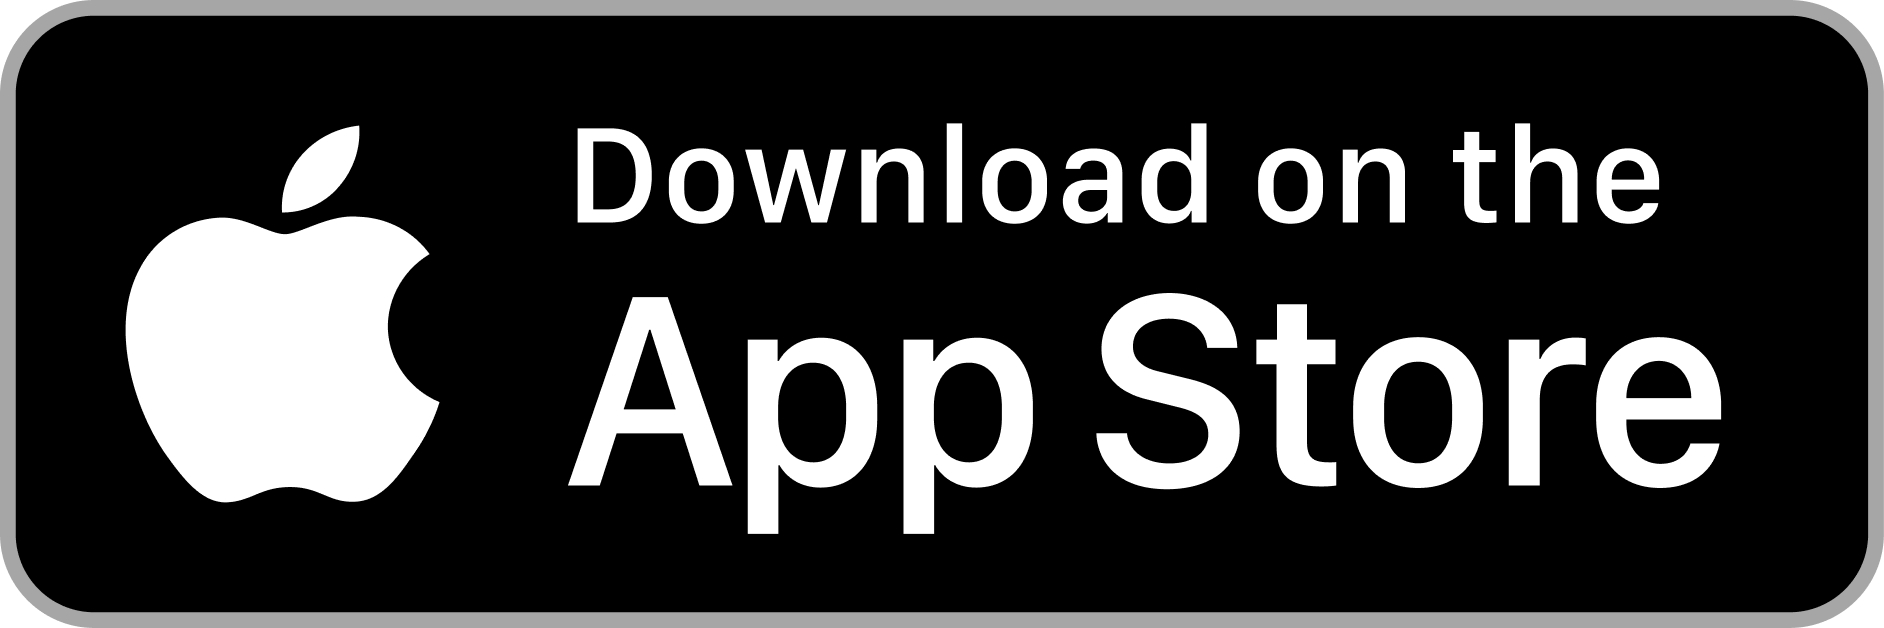
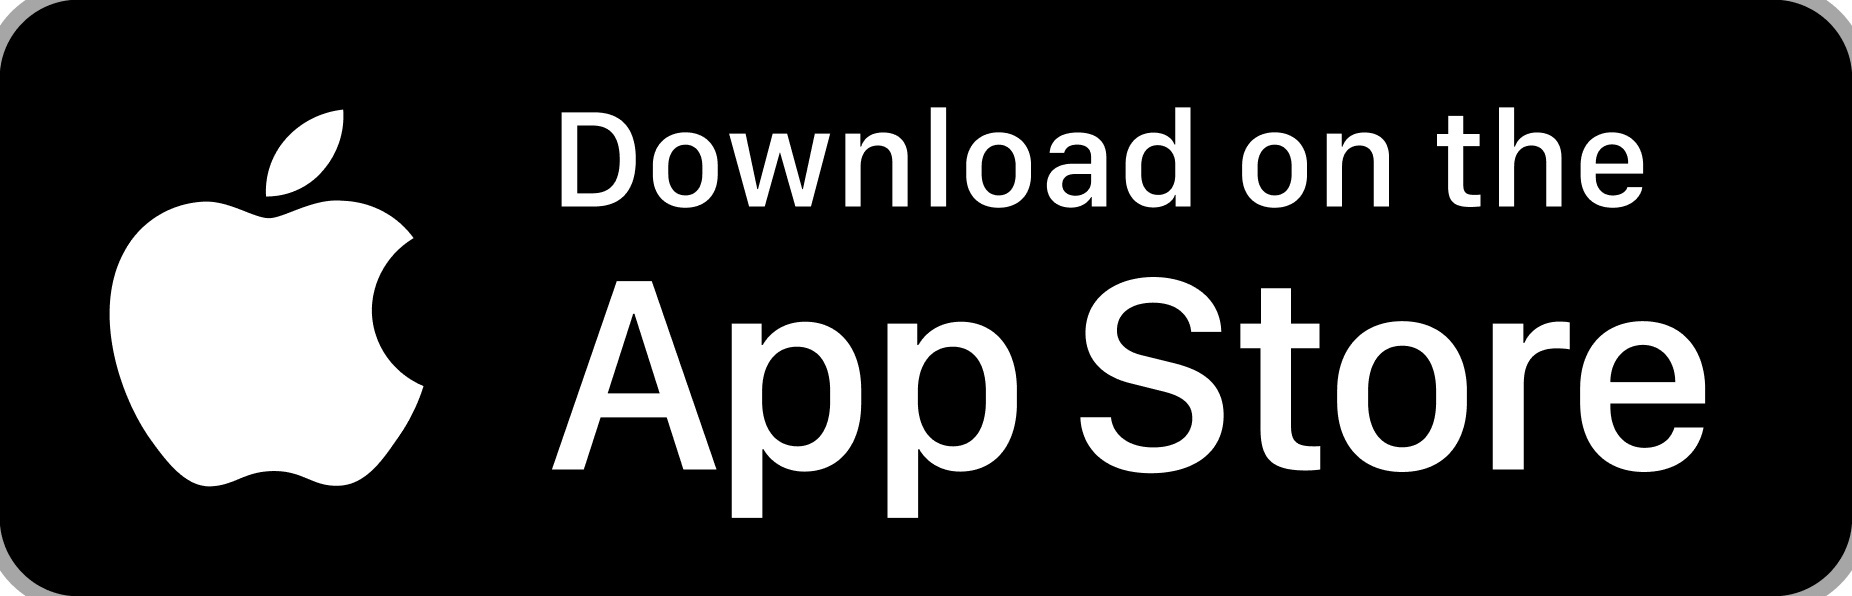
Crop grey border from badges, equal 48px height for both badges

diff --git a/mia_delivered.html b/mia_delivered.html
@@ -550,12 +550,12 @@ img{display:block;border:0;outline:none;text-decoration:none;-ms-interpolation-m
          <tr>
           <td style="padding-right:8px;" valign="middle">
            <a href="https://play.google.com/store/apps/details?id=com.titancompany.miabytanishqapp&amp;hl=en_IN" rel="noopener noreferrer" target="_blank">
-            <img alt="Get it on Google Play" border="0" height="48" src="https://raw.githubusercontent.com/piyush-titan/mia-emails/main/play_store.jpg" style="display:block;height:48px;width:auto;" width="auto"/>
+            <img alt="Get it on Google Play" border="0" height="48" src="https://raw.githubusercontent.com/piyush-titan/mia-emails/main/play_store.jpg" style="display:block;height:48px;width:auto;border-radius:8px;" width="auto"/>
            </a>
           </td>
           <td valign="middle">
            <a href="https://apps.apple.com/in/app/mia-by-tanishq/id1632160428" rel="noopener noreferrer" target="_blank">
-            <img alt="Download on the App Store" border="0" height="40" src="https://raw.githubusercontent.com/piyush-titan/mia-emails/main/app_store.jpg" style="display:block;height:40px;width:auto;" width="auto"/>
+            <img alt="Download on the App Store" border="0" height="48" src="https://raw.githubusercontent.com/piyush-titan/mia-emails/main/app_store.jpg" style="display:block;height:48px;width:auto;border-radius:8px;" width="auto"/>
            </a>
           </td>
          </tr>

diff --git a/mia_order_cancelled.html b/mia_order_cancelled.html
@@ -481,12 +481,12 @@ img{display:block;border:0;outline:none;text-decoration:none;-ms-interpolation-m
          <tr>
           <td style="padding-right:8px;" valign="middle">
            <a href="https://play.google.com/store/apps/details?id=com.titancompany.miabytanishqapp&amp;hl=en_IN" rel="noopener noreferrer" target="_blank">
-            <img alt="Get it on Google Play" border="0" height="48" src="https://raw.githubusercontent.com/piyush-titan/mia-emails/main/play_store.jpg" style="display:block;height:48px;width:auto;" width="auto"/>
+            <img alt="Get it on Google Play" border="0" height="48" src="https://raw.githubusercontent.com/piyush-titan/mia-emails/main/play_store.jpg" style="display:block;height:48px;width:auto;border-radius:8px;" width="auto"/>
            </a>
           </td>
           <td valign="middle">
            <a href="https://apps.apple.com/in/app/mia-by-tanishq/id1632160428" rel="noopener noreferrer" target="_blank">
-            <img alt="Download on the App Store" border="0" height="40" src="https://raw.githubusercontent.com/piyush-titan/mia-emails/main/app_store.jpg" style="display:block;height:40px;width:auto;" width="auto"/>
+            <img alt="Download on the App Store" border="0" height="48" src="https://raw.githubusercontent.com/piyush-titan/mia-emails/main/app_store.jpg" style="display:block;height:48px;width:auto;border-radius:8px;" width="auto"/>
            </a>
           </td>
          </tr>

diff --git a/mia_order_cancelledbycust.html b/mia_order_cancelledbycust.html
@@ -481,12 +481,12 @@ img{display:block;border:0;outline:none;text-decoration:none;-ms-interpolation-m
          <tr>
           <td style="padding-right:8px;" valign="middle">
            <a href="https://play.google.com/store/apps/details?id=com.titancompany.miabytanishqapp&amp;hl=en_IN" rel="noopener noreferrer" target="_blank">
-            <img alt="Get it on Google Play" border="0" height="48" src="https://raw.githubusercontent.com/piyush-titan/mia-emails/main/play_store.jpg" style="display:block;height:48px;width:auto;" width="auto"/>
+            <img alt="Get it on Google Play" border="0" height="48" src="https://raw.githubusercontent.com/piyush-titan/mia-emails/main/play_store.jpg" style="display:block;height:48px;width:auto;border-radius:8px;" width="auto"/>
            </a>
           </td>
           <td valign="middle">
            <a href="https://apps.apple.com/in/app/mia-by-tanishq/id1632160428" rel="noopener noreferrer" target="_blank">
-            <img alt="Download on the App Store" border="0" height="40" src="https://raw.githubusercontent.com/piyush-titan/mia-emails/main/app_store.jpg" style="display:block;height:40px;width:auto;" width="auto"/>
+            <img alt="Download on the App Store" border="0" height="48" src="https://raw.githubusercontent.com/piyush-titan/mia-emails/main/app_store.jpg" style="display:block;height:48px;width:auto;border-radius:8px;" width="auto"/>
            </a>
           </td>
          </tr>

diff --git a/mia_order_confirmed.html b/mia_order_confirmed.html
@@ -550,12 +550,12 @@ img{display:block;border:0;outline:none;text-decoration:none;-ms-interpolation-m
          <tr>
           <td style="padding-right:8px;" valign="middle">
            <a href="https://play.google.com/store/apps/details?id=com.titancompany.miabytanishqapp&amp;hl=en_IN" rel="noopener noreferrer" target="_blank">
-            <img alt="Get it on Google Play" border="0" height="48" src="https://raw.githubusercontent.com/piyush-titan/mia-emails/main/play_store.jpg" style="display:block;height:48px;width:auto;" width="auto"/>
+            <img alt="Get it on Google Play" border="0" height="48" src="https://raw.githubusercontent.com/piyush-titan/mia-emails/main/play_store.jpg" style="display:block;height:48px;width:auto;border-radius:8px;" width="auto"/>
            </a>
           </td>
           <td valign="middle">
            <a href="https://apps.apple.com/in/app/mia-by-tanishq/id1632160428" rel="noopener noreferrer" target="_blank">
-            <img alt="Download on the App Store" border="0" height="40" src="https://raw.githubusercontent.com/piyush-titan/mia-emails/main/app_store.jpg" style="display:block;height:40px;width:auto;" width="auto"/>
+            <img alt="Download on the App Store" border="0" height="48" src="https://raw.githubusercontent.com/piyush-titan/mia-emails/main/app_store.jpg" style="display:block;height:48px;width:auto;border-radius:8px;" width="auto"/>
            </a>
           </td>
          </tr>

diff --git a/mia_outfordelivery.html b/mia_outfordelivery.html
@@ -547,12 +547,12 @@ img{display:block;border:0;outline:none;text-decoration:none;-ms-interpolation-m
          <tr>
           <td style="padding-right:8px;" valign="middle">
            <a href="https://play.google.com/store/apps/details?id=com.titancompany.miabytanishqapp&amp;hl=en_IN" rel="noopener noreferrer" target="_blank">
-            <img alt="Get it on Google Play" border="0" height="48" src="https://raw.githubusercontent.com/piyush-titan/mia-emails/main/play_store.jpg" style="display:block;height:48px;width:auto;" width="auto"/>
+            <img alt="Get it on Google Play" border="0" height="48" src="https://raw.githubusercontent.com/piyush-titan/mia-emails/main/play_store.jpg" style="display:block;height:48px;width:auto;border-radius:8px;" width="auto"/>
            </a>
           </td>
           <td valign="middle">
            <a href="https://apps.apple.com/in/app/mia-by-tanishq/id1632160428" rel="noopener noreferrer" target="_blank">
-            <img alt="Download on the App Store" border="0" height="40" src="https://raw.githubusercontent.com/piyush-titan/mia-emails/main/app_store.jpg" style="display:block;height:40px;width:auto;" width="auto"/>
+            <img alt="Download on the App Store" border="0" height="48" src="https://raw.githubusercontent.com/piyush-titan/mia-emails/main/app_store.jpg" style="display:block;height:48px;width:auto;border-radius:8px;" width="auto"/>
            </a>
           </td>
          </tr>

diff --git a/mia_packed.html b/mia_packed.html
@@ -550,12 +550,12 @@ img{display:block;border:0;outline:none;text-decoration:none;-ms-interpolation-m
          <tr>
           <td style="padding-right:8px;" valign="middle">
            <a href="https://play.google.com/store/apps/details?id=com.titancompany.miabytanishqapp&amp;hl=en_IN" rel="noopener noreferrer" target="_blank">
-            <img alt="Get it on Google Play" border="0" height="48" src="https://raw.githubusercontent.com/piyush-titan/mia-emails/main/play_store.jpg" style="display:block;height:48px;width:auto;" width="auto"/>
+            <img alt="Get it on Google Play" border="0" height="48" src="https://raw.githubusercontent.com/piyush-titan/mia-emails/main/play_store.jpg" style="display:block;height:48px;width:auto;border-radius:8px;" width="auto"/>
            </a>
           </td>
           <td valign="middle">
            <a href="https://apps.apple.com/in/app/mia-by-tanishq/id1632160428" rel="noopener noreferrer" target="_blank">
-            <img alt="Download on the App Store" border="0" height="40" src="https://raw.githubusercontent.com/piyush-titan/mia-emails/main/app_store.jpg" style="display:block;height:40px;width:auto;" width="auto"/>
+            <img alt="Download on the App Store" border="0" height="48" src="https://raw.githubusercontent.com/piyush-titan/mia-emails/main/app_store.jpg" style="display:block;height:48px;width:auto;border-radius:8px;" width="auto"/>
            </a>
           </td>
          </tr>

diff --git a/mia_refund_initiated.html b/mia_refund_initiated.html
@@ -571,12 +571,12 @@ img{display:block;border:0;outline:none;text-decoration:none;-ms-interpolation-m
          <tr>
           <td style="padding-right:8px;" valign="middle">
            <a href="https://play.google.com/store/apps/details?id=com.titancompany.miabytanishqapp&amp;hl=en_IN" rel="noopener noreferrer" target="_blank">
-            <img alt="Get it on Google Play" border="0" height="48" src="https://raw.githubusercontent.com/piyush-titan/mia-emails/main/play_store.jpg" style="display:block;height:48px;width:auto;" width="auto"/>
+            <img alt="Get it on Google Play" border="0" height="48" src="https://raw.githubusercontent.com/piyush-titan/mia-emails/main/play_store.jpg" style="display:block;height:48px;width:auto;border-radius:8px;" width="auto"/>
            </a>
           </td>
           <td valign="middle">
            <a href="https://apps.apple.com/in/app/mia-by-tanishq/id1632160428" rel="noopener noreferrer" target="_blank">
-            <img alt="Download on the App Store" border="0" height="40" src="https://raw.githubusercontent.com/piyush-titan/mia-emails/main/app_store.jpg" style="display:block;height:40px;width:auto;" width="auto"/>
+            <img alt="Download on the App Store" border="0" height="48" src="https://raw.githubusercontent.com/piyush-titan/mia-emails/main/app_store.jpg" style="display:block;height:48px;width:auto;border-radius:8px;" width="auto"/>
            </a>
           </td>
          </tr>

diff --git a/mia_refund_processed.html b/mia_refund_processed.html
@@ -575,12 +575,12 @@ img{display:block;border:0;outline:none;text-decoration:none;-ms-interpolation-m
          <tr>
           <td style="padding-right:8px;" valign="middle">
            <a href="https://play.google.com/store/apps/details?id=com.titancompany.miabytanishqapp&amp;hl=en_IN" rel="noopener noreferrer" target="_blank">
-            <img alt="Get it on Google Play" border="0" height="48" src="https://raw.githubusercontent.com/piyush-titan/mia-emails/main/play_store.jpg" style="display:block;height:48px;width:auto;" width="auto"/>
+            <img alt="Get it on Google Play" border="0" height="48" src="https://raw.githubusercontent.com/piyush-titan/mia-emails/main/play_store.jpg" style="display:block;height:48px;width:auto;border-radius:8px;" width="auto"/>
            </a>
           </td>
           <td valign="middle">
            <a href="https://apps.apple.com/in/app/mia-by-tanishq/id1632160428" rel="noopener noreferrer" target="_blank">
-            <img alt="Download on the App Store" border="0" height="40" src="https://raw.githubusercontent.com/piyush-titan/mia-emails/main/app_store.jpg" style="display:block;height:40px;width:auto;" width="auto"/>
+            <img alt="Download on the App Store" border="0" height="48" src="https://raw.githubusercontent.com/piyush-titan/mia-emails/main/app_store.jpg" style="display:block;height:48px;width:auto;border-radius:8px;" width="auto"/>
            </a>
           </td>
          </tr>

diff --git a/mia_return_initiated.html b/mia_return_initiated.html
@@ -556,12 +556,12 @@ img{display:block;border:0;outline:none;text-decoration:none;-ms-interpolation-m
          <tr>
           <td style="padding-right:8px;" valign="middle">
            <a href="https://play.google.com/store/apps/details?id=com.titancompany.miabytanishqapp&amp;hl=en_IN" rel="noopener noreferrer" target="_blank">
-            <img alt="Get it on Google Play" border="0" height="48" src="https://raw.githubusercontent.com/piyush-titan/mia-emails/main/play_store.jpg" style="display:block;height:48px;width:auto;" width="auto"/>
+            <img alt="Get it on Google Play" border="0" height="48" src="https://raw.githubusercontent.com/piyush-titan/mia-emails/main/play_store.jpg" style="display:block;height:48px;width:auto;border-radius:8px;" width="auto"/>
            </a>
           </td>
           <td valign="middle">
            <a href="https://apps.apple.com/in/app/mia-by-tanishq/id1632160428" rel="noopener noreferrer" target="_blank">
-            <img alt="Download on the App Store" border="0" height="40" src="https://raw.githubusercontent.com/piyush-titan/mia-emails/main/app_store.jpg" style="display:block;height:40px;width:auto;" width="auto"/>
+            <img alt="Download on the App Store" border="0" height="48" src="https://raw.githubusercontent.com/piyush-titan/mia-emails/main/app_store.jpg" style="display:block;height:48px;width:auto;border-radius:8px;" width="auto"/>
            </a>
           </td>
          </tr>

diff --git a/mia_return_pickup.html b/mia_return_pickup.html
@@ -556,12 +556,12 @@ img{display:block;border:0;outline:none;text-decoration:none;-ms-interpolation-m
          <tr>
           <td style="padding-right:8px;" valign="middle">
            <a href="https://play.google.com/store/apps/details?id=com.titancompany.miabytanishqapp&amp;hl=en_IN" rel="noopener noreferrer" target="_blank">
-            <img alt="Get it on Google Play" border="0" height="48" src="https://raw.githubusercontent.com/piyush-titan/mia-emails/main/play_store.jpg" style="display:block;height:48px;width:auto;" width="auto"/>
+            <img alt="Get it on Google Play" border="0" height="48" src="https://raw.githubusercontent.com/piyush-titan/mia-emails/main/play_store.jpg" style="display:block;height:48px;width:auto;border-radius:8px;" width="auto"/>
            </a>
           </td>
           <td valign="middle">
            <a href="https://apps.apple.com/in/app/mia-by-tanishq/id1632160428" rel="noopener noreferrer" target="_blank">
-            <img alt="Download on the App Store" border="0" height="40" src="https://raw.githubusercontent.com/piyush-titan/mia-emails/main/app_store.jpg" style="display:block;height:40px;width:auto;" width="auto"/>
+            <img alt="Download on the App Store" border="0" height="48" src="https://raw.githubusercontent.com/piyush-titan/mia-emails/main/app_store.jpg" style="display:block;height:48px;width:auto;border-radius:8px;" width="auto"/>
            </a>
           </td>
          </tr>

diff --git a/mia_return_received.html b/mia_return_received.html
@@ -556,12 +556,12 @@ img{display:block;border:0;outline:none;text-decoration:none;-ms-interpolation-m
          <tr>
           <td style="padding-right:8px;" valign="middle">
            <a href="https://play.google.com/store/apps/details?id=com.titancompany.miabytanishqapp&amp;hl=en_IN" rel="noopener noreferrer" target="_blank">
-            <img alt="Get it on Google Play" border="0" height="48" src="https://raw.githubusercontent.com/piyush-titan/mia-emails/main/play_store.jpg" style="display:block;height:48px;width:auto;" width="auto"/>
+            <img alt="Get it on Google Play" border="0" height="48" src="https://raw.githubusercontent.com/piyush-titan/mia-emails/main/play_store.jpg" style="display:block;height:48px;width:auto;border-radius:8px;" width="auto"/>
            </a>
           </td>
           <td valign="middle">
            <a href="https://apps.apple.com/in/app/mia-by-tanishq/id1632160428" rel="noopener noreferrer" target="_blank">
-            <img alt="Download on the App Store" border="0" height="40" src="https://raw.githubusercontent.com/piyush-titan/mia-emails/main/app_store.jpg" style="display:block;height:40px;width:auto;" width="auto"/>
+            <img alt="Download on the App Store" border="0" height="48" src="https://raw.githubusercontent.com/piyush-titan/mia-emails/main/app_store.jpg" style="display:block;height:48px;width:auto;border-radius:8px;" width="auto"/>
            </a>
           </td>
          </tr>

diff --git a/mia_shipped.html b/mia_shipped.html
@@ -553,12 +553,12 @@ img{display:block;border:0;outline:none;text-decoration:none;-ms-interpolation-m
          <tr>
           <td style="padding-right:8px;" valign="middle">
            <a href="https://play.google.com/store/apps/details?id=com.titancompany.miabytanishqapp&amp;hl=en_IN" rel="noopener noreferrer" target="_blank">
-            <img alt="Get it on Google Play" border="0" height="48" src="https://raw.githubusercontent.com/piyush-titan/mia-emails/main/play_store.jpg" style="display:block;height:48px;width:auto;" width="auto"/>
+            <img alt="Get it on Google Play" border="0" height="48" src="https://raw.githubusercontent.com/piyush-titan/mia-emails/main/play_store.jpg" style="display:block;height:48px;width:auto;border-radius:8px;" width="auto"/>
            </a>
           </td>
           <td valign="middle">
            <a href="https://apps.apple.com/in/app/mia-by-tanishq/id1632160428" rel="noopener noreferrer" target="_blank">
-            <img alt="Download on the App Store" border="0" height="40" src="https://raw.githubusercontent.com/piyush-titan/mia-emails/main/app_store.jpg" style="display:block;height:40px;width:auto;" width="auto"/>
+            <img alt="Download on the App Store" border="0" height="48" src="https://raw.githubusercontent.com/piyush-titan/mia-emails/main/app_store.jpg" style="display:block;height:48px;width:auto;border-radius:8px;" width="auto"/>
            </a>
           </td>
          </tr>
